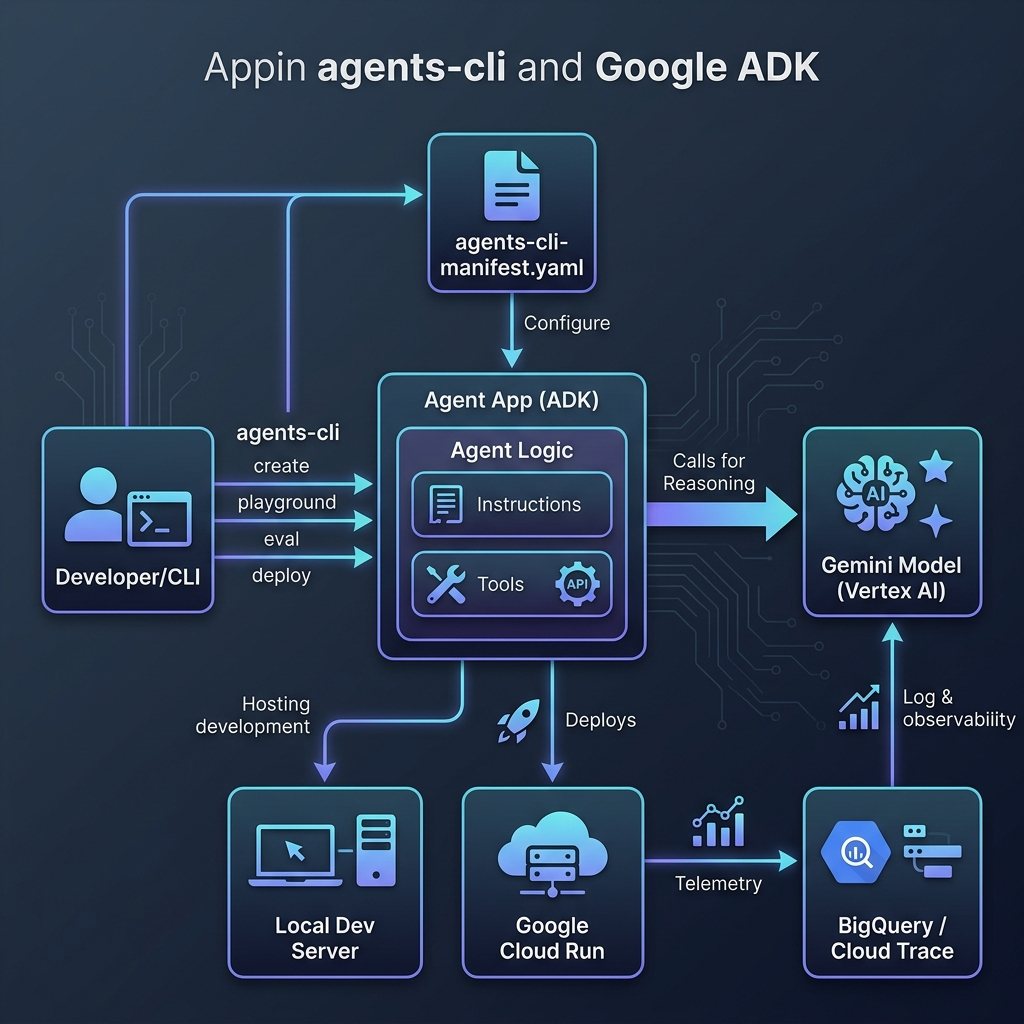
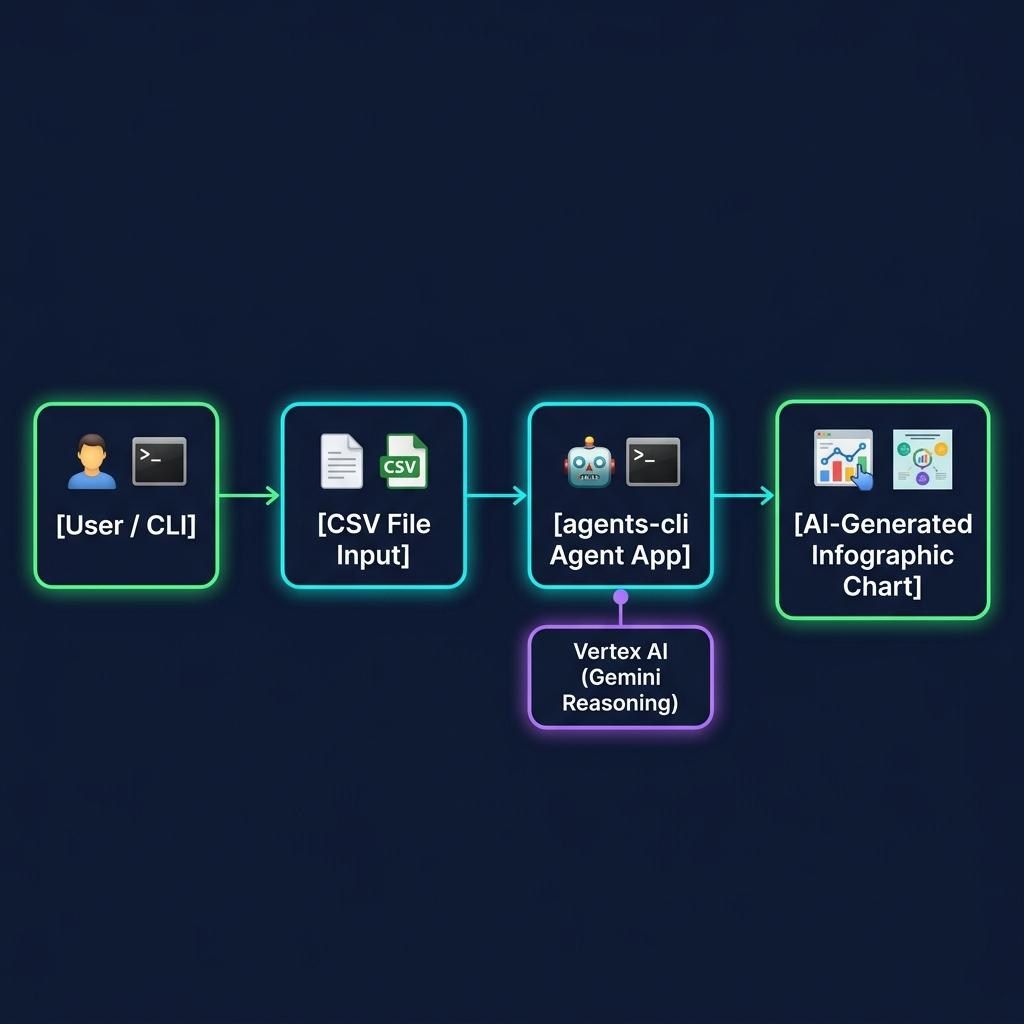
docs: correct 'Appin' typo, simplify architecture, and add walkthrough example to README

diff --git a/README.md b/README.md
@@ -1,5 +1,5 @@
 <div align="center">
-  <img src="docs/hero_banner.png" alt="InsightFlow AI Banner" width="100%" style="border-radius: 12px; box-shadow: 0 4px 20px rgba(0,0,0,0.3);" />
+  <img src="docs/hero_banner.png" alt="InsightFlow AI Banner" width="100%" style="border-radius: 12px; box-shadow: 0 4px 20px rgba(0,0,0,0.35);" />
 
   <br/><br/>
 
@@ -7,157 +7,141 @@
   [![Google ADK](https://img.shields.io/badge/Google_ADK-Framework-8E75B2?style=for-the-badge&logo=googlebard&logoColor=white)](https://google.github.io/adk-docs/)
   [![Gemini](https://img.shields.io/badge/Gemini_Flash-Latest-blueviolet?style=for-the-badge)](https://deepmind.google/technologies/gemini/)
   [![Python](https://img.shields.io/badge/Python_3.11+-3776AB?style=for-the-badge&logo=python&logoColor=white)](https://python.org)
-  [![Cloud Run](https://img.shields.io/badge/Cloud_Run-Ready-34A853?style=for-the-badge&logo=googlecloud&logoColor=white)](https://cloud.google.com/run)
 
   <br/>
-  <p><b>Your AI-powered personal Data Analyst. Scaffolded with <code>agents-cli</code> — upload a CSV, get instant charts & insights.</b></p>
+  <p><b>An AI CSV Analytics Agent scaffolded and deployed using Google's <code>agents-cli</code>.</b></p>
 </div>
 
 ---
 
-## 📖 Overview
+## 📖 Introduction
 
-**InsightFlow AI** is a production-ready agentic AI application built using **[google-agents-cli](https://google.github.io/agents-cli/)**—Google's unified CLI tool for the full Agent Development Kit (ADK) development lifecycle.
+**InsightFlow AI** is a production-grade agentic application created using **`agents-cli`**—Google's unified CLI tool for the full Agent Development Kit (ADK) lifecycle. 
 
-By declaring intent through config, writing custom Python tool logic, and utilizing Gemini's reasoning engine, InsightFlow automatically processes CSV files, generates rich visualizations, and extracts business intelligence.
+This repository serves as a blueprint showing how to build, evaluate, and deploy a Gemini-powered agent that takes CSV data inputs, writes code or builds charts, and outputs rich infographic summaries dynamically.
 
 ---
 
-## 🏗️ Technical Architecture
+## 🏗️ Simple Architecture Flow
 
-The following diagram illustrates how the `agents-cli` orchestrates the local development, model execution, deployment, and monitoring paths.
+The system processes data through a simple sequential pipeline:
 
 <div align="center">
-  <img src="docs/agents_cli_architecture.png" alt="agents-cli Technical Architecture" width="90%" style="border-radius: 12px; box-shadow: 0 4px 15px rgba(0,0,0,0.2); margin: 20px 0;" />
-  <p><i>System Architecture: CLI Interface ➜ Manifest Config ➜ Agent Logic (ADK) ➜ Gemini Reasoning ➜ Deployments & Telemetry</i></p>
+  <img src="docs/agents_cli_architecture.png" alt="agents-cli Simple Architecture Flow" width="85%" style="border-radius: 12px; box-shadow: 0 4px 15px rgba(0,0,0,0.15); margin: 20px 0;" />
 </div>
+
+1. **User / CLI:** Developer creates or deploys the agent with `agents-cli`, or a client sends prompts.
+2. **CSV File Input:** User uploads a `.csv` file or pastes raw CSV text directly into the chat interface.
+3. **agents-cli Agent App:** The core agent app (`app/agent.py`) coordinates instructions, system prompts, and tools.
+4. **Vertex AI (Gemini Reasoning):** Gemini decides which tools to invoke based on the user's query.
+5. **AI-Generated Infographic Chart:** The agent runs custom data analysis tools and outputs visual chart files (`/charts/infographic.png`).
 
 ---
 
-## 🔄 Agent Development Lifecycle (ADLC)
+## 🔄 Simple agents-cli Lifecycle
 
-`agents-cli` structures the lifecycle of your Agentic workflows into 6 distinct stages:
+`agents-cli` manages the entire agent project lifecycle from local setup to cloud production:
 
 <div align="center">
-  <img src="docs/agents_cli_lifecycle.png" alt="Agent Development Lifecycle" width="90%" style="border-radius: 12px; box-shadow: 0 4px 15px rgba(0,0,0,0.2); margin: 20px 0;" />
-  <p><i>The 6-Step Developer Loop enabled by agents-cli</i></p>
+  <img src="docs/agents_cli_lifecycle.png" alt="Simple agents-cli Lifecycle Flow" width="85%" style="border-radius: 12px; box-shadow: 0 4px 15px rgba(0,0,0,0.15); margin: 20px 0;" />
 </div>
 
 ---
 
-## 🚀 Getting Started
+## 📊 Walkthrough: Generating an Infographic from CSV
 
-### Prerequisites
-- **[uv](https://docs.astral.sh/uv/)** — Extremely fast Python package installer and manager.
-- **google-agents-cli** — Install globally via:
-  ```bash
-  uv tool install google-agents-cli
-  ```
-- **Google Cloud SDK** — Configured with active credentials:
-  ```bash
-  gcloud auth application-default login
-  ```
+Here is a step-by-step example of how the agent consumes a CSV dataset and outputs an infographic dashboard.
 
-### 1. Project Initialization & Setup
-The repository comes pre-scaffolded with all necessary configuration. Install the project dependencies using the CLI:
+### 1. Launch the Application Locally
+Run the FastAPI development server to enable local static chart rendering:
 ```bash
+# Install agent dependencies
 agents-cli install
-```
 
-### 2. Run the Interactive Local Server
-While `agents-cli playground` launches the default development interface, for full chart visualization (which serves static assets from `/charts/`), launch the FastAPI application directly:
-```bash
+# Start the uvicorn development server
 uv run uvicorn app.fast_api_app:app --host 127.0.0.1 --port 8080 --reload
 ```
-Once started, navigate to:
-👉 **[http://127.0.0.1:8080/dev-ui/?app=app](http://127.0.0.1:8080/dev-ui/?app=app)**
+Open your browser and navigate to: **[http://127.0.0.1:8080/dev-ui/?app=app](http://127.0.0.1:8080/dev-ui/?app=app)**.
 
----
-
-## 🧪 Testing and Quality Evaluation
-
-Agent development requires robust testing loops to measure agent prompt stability and tool correctness.
-
-### Local Quality Evals (LLM-as-a-Judge)
-Run the built-in evaluation set to test model outputs against expectations defined in `tests/eval/evalsets/`:
-```bash
-agents-cli eval run
+### 2. Provide a CSV Dataset
+Paste raw CSV text directly in the playground chat or reference a local file:
+```csv
+Product,Revenue,Units Sold
+Widgets,12000,300
+Gadgets,18000,450
+Gizmos,8500,210
+Thingamabobs,15000,380
+Doohickeys,9500,240
 ```
 
-### Unit & Integration Testing
-Execute standard unit tests and API integration suites:
-```bash
-# Run pytest test suite
-uv run pytest tests/unit tests/integration -v
-
-# Run agent static analysis
-agents-cli lint
+### 3. Ask the Agent for a Visualization
+```text
+"Analyze this data and generate an infographic dashboard"
 ```
 
----
-
-## 🛠️ Custom Agent Capabilities
-
-Scaffolded under `app/agent.py`, the agent leverages customized Python tool execution to perform data operations:
-
-| Capability Tool | Description | Input Context |
-| :--- | :--- | :--- |
-| `analyze_csv` | Parses CSV metadata, columns, shape, and structure | CSV File Path |
-| `generate_bar_chart` | Dynamically maps sales metrics to clean Matplotlib bar charts | CSV Column |
-| `generate_pie_chart` | Formulates category distribution percentages as pie charts | CSV Column |
-| `generate_infographic` | Combines analysis metrics into a single multi-chart visual layout | CSV Path |
-| `generate_insights` | Evaluates charts and generates strategic executive advice | CSV + Graph context |
-| `save_csv_content` | Saves pasted raw CSV content locally for analysis tools | Raw text block |
+### 4. Under the Hood execution
+- The agent detects raw CSV text and calls `save_csv_content(csv_content)` to store it as `temp_data.csv`.
+- The agent calls `generate_infographic("temp_data.csv")`.
+- Matplotlib renders a dual-visualization dashboard:
+  - Left Panel: **Bar chart** comparing sales volume.
+  - Right Panel: **Pie chart** showing distribution percentages.
+- The infographic is saved to `/charts/infographic.png`.
+- The agent responds with the inline markdown tag `![Infographic](/charts/infographic.png)` showing the visual dashboard in your chat view.
 
 ---
 
-## 📁 Repository Structure
+## 🛠️ CLI Command Reference
+
+Manage your agent workspace with these core `agents-cli` commands:
+
+| Command | Purpose |
+| :--- | :--- |
+| **`agents-cli install`** | Installs dependencies specified in `pyproject.toml` |
+| **`agents-cli playground`** | Launches the local interactive web UI chat playground |
+| **`agents-cli eval run`** | Runs programmatic test cases against the defined evalsets |
+| **`agents-cli lint`** | Checks your Python agent definitions for errors and warnings |
+| **`agents-cli deploy`** | Packages your code in Docker and deploys to GCP Cloud Run |
+| **`agents-cli infra single-project`** | Generates and runs Terraform to set up GCP infrastructure |
+
+---
+
+## 📁 Repository Map
 
 ```text
 insightflow-ai/
-├── agents-cli-manifest.yaml   # Declarative agents-cli configuration manifest
-├── GEMINI.md                  # Developer guidelines and agent context
-├── Dockerfile                 # Cloud Run containerization schema
-├── pyproject.toml             # Dependencies managed via uv
+├── agents-cli-manifest.yaml   # Declares agent type, layout config, and GCP region
+├── GEMINI.md                  # Development guidelines for AI coding tools
+├── Dockerfile                 # Container setup for production build
+├── pyproject.toml             # Python libraries (Pandas, Matplotlib, FastAPI)
 ├── app/
-│   ├── agent.py               # Main Agent definition, instructions, and tools
-│   ├── fast_api_app.py        # FastAPI server running the dev-ui and chart assets
+│   ├── agent.py               # Core instructions, Gemini config, and custom chart tools
+│   ├── fast_api_app.py        # Backend routes, static assets, and dev-ui mounts
 │   └── app_utils/
-│       ├── telemetry.py       # OpenTelemetry context for tracing
-│       └── typing.py          # Shared type validation
-├── deployment/
-│   └── terraform/             # Cloud Infrastructure (Cloud Run, BigQuery, IAM)
-├── docs/                      # UI images and architecture assets
+│       ├── telemetry.py       # Observability logs integration
+│       └── typing.py          # Shared runtime types
+├── docs/                      # Images and diagrams
 └── tests/
-    ├── unit/                  # Local logic unit tests
-    ├── integration/           # Endpoint integration tests
-    └── eval/                  # Golden dataset evaluations
+    ├── unit/                  # Local tool testing
+    ├── integration/           # E2E server testing
+    └── eval/                  # Golden test metrics
 ```
 
 ---
 
-## ☁️ Production Deployment
+## ☁️ Deployment to Google Cloud Run
 
-Deploy the agent to Google Cloud Run with single-command ease:
+Ready to deploy to staging or production? Run:
 
 ```bash
-# Set your active GCP Project
+# 1. Select target project
 gcloud config set project <YOUR_PROJECT_ID>
 
-# Provision required project infrastructure
+# 2. Provision Google Cloud infrastructure (BigQuery, IAM, Artifact Registry)
 agents-cli infra single-project
 
-# Package, build, and deploy the agent app
+# 3. Deploy the application service
 agents-cli deploy
 ```
-
----
-
-> [!TIP]
-> Utilize the **[Gemini CLI](https://github.com/google-gemini/gemini-cli)** for AI-assisted development. Context definitions are configured inside `GEMINI.md`.
-
-> [!NOTE]
-> All telemetry (user prompts, tool execution paths, token counts) is exported directly to Google Cloud BigQuery for enterprise-grade analytics and observability.
 
 ---
 